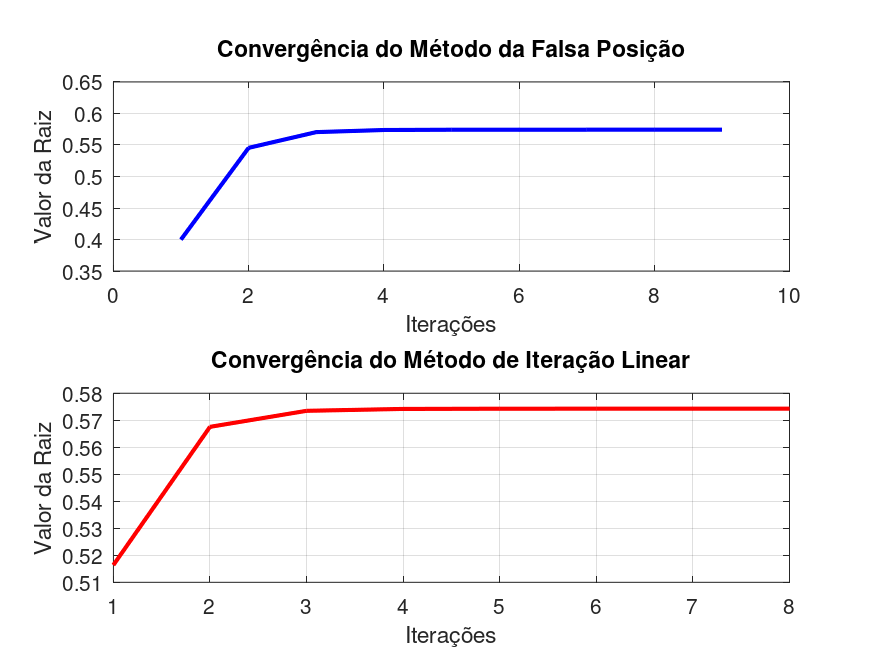
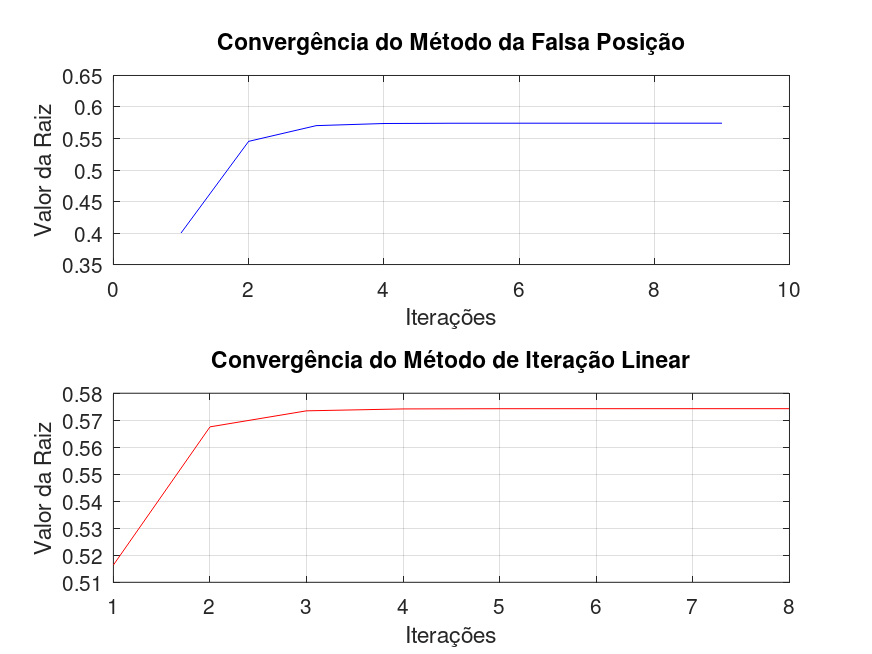
Revendo algumas alterações

diff --git a/Lista 5 - Alex e Bruno/P2/lista5Questao3.m b/Lista 5 - Alex e Bruno/P2/lista5Questao3.m
@@ -140,20 +140,64 @@ function criar_tabela(itBisseccao, rootBisseccao, itFalsaPosicao, rootFalsaPosic
 endfunction
 
 function criar_graficos(valoresBisseccao, valoresFalsaPosicao, valoresIteracaoLinear, valoresNewtonRaphson, valoresSecante)
-    % Função para criar gráficos de convergência
+    % Função para criar gráficos de convergência separados para cada método
+
     figure;
-    plot(valoresBisseccao, '-o'); hold on;
-    plot(valoresFalsaPosicao, '-x');
-    plot(valoresIteracaoLinear, '-s');
-    plot(valoresNewtonRaphson, '-d');
-    plot(valoresSecante, '-p');
+    plot(valoresBisseccao, 'b-'); hold on;
+    plot(valoresFalsaPosicao, 'g-');
+    plot(valoresIteracaoLinear, 'm-');
+    plot(valoresNewtonRaphson, 'c-');
+    plot(valoresSecante, 'r-');
     legend('Bissecção', 'Falsa Posição', 'Iteração Linear', 'Newton-Raphson', 'Secante');
     xlabel('Iterações');
     ylabel('Valor de xr');
-    title('Convergência dos Métodos');
+    title('Convergência dos Métodos (Gráfico Combinado)');
     grid on;
-    saveas(gcf, 'graficos_convergencia_lista5Questao3.png');  % Salva o gráfico gerado
+    saveas(gcf, 'graficos_convergencia_combinado_lista5Questao3.png');  % Salva o gráfico combinado
+
+    % Gráfico para Bissecção
+    figure;
+    plot(valoresBisseccao, 'b-', 'DisplayName', 'Bissecção');
+    xlabel('Iterações');
+    ylabel('Raiz Aproximada');
+    title('Gráfico de Convergência - Bissecção');
+    legend show;
+
+    % Gráfico para Falsa Posição
+    figure;
+    plot(valoresFalsaPosicao, 'g-', 'DisplayName', 'Falsa Posição');
+    xlabel('Iterações');
+    ylabel('Raiz Aproximada');
+    title('Gráfico de Convergência - Falsa Posição');
+    legend show;
+
+    % Gráfico para Iteração Linear
+    figure;
+    plot(valoresIteracaoLinear, 'm-', 'DisplayName', 'Iteração Linear');
+    xlabel('Iterações');
+    ylabel('Raiz Aproximada');
+    title('Gráfico de Convergência - Iteração Linear');
+    legend show;
+
+    % Gráfico para Newton-Raphson
+    figure;
+    plot(valoresNewtonRaphson, 'c-', 'DisplayName', 'Newton-Raphson');
+    xlabel('Iterações');
+    ylabel('Raiz Aproximada');
+    title('Gráfico de Convergência - Newton-Raphson');
+    legend show;
+
+    % Gráfico para Secante
+    figure;
+    plot(valoresSecante, 'r-', 'DisplayName', 'Secante');
+    xlabel('Iterações');
+    ylabel('Raiz Aproximada');
+    title('Gráfico de Convergência - Secante');
+    legend show;
 endfunction
+
+
+
 
 function Ea = calcularErroEstimativa(resultadoAtual, resultadoPrev)
     if resultadoPrev == Inf

diff --git a/Lista 5 - Alex e Bruno/P1/lista5Questao1.m b/Lista 5 - Alex e Bruno/P1/lista5Questao1.m
@@ -145,7 +145,7 @@ function criar_graficos(itBisseccao, valoresBisseccao, itIteracaoLinear, valores
 
     % Gráfico para Bissecção
     subplot(2, 1, 1);
-    plot(1:length(valoresBisseccao), valoresBisseccao, 'b-', 'LineWidth', 2);
+    plot(1:length(valoresBisseccao), valoresBisseccao, 'b-');
     title('Convergência do Método da Bissecção');
     xlabel('Iterações');
     ylabel('Valor da Raiz');
@@ -153,7 +153,7 @@ function criar_graficos(itBisseccao, valoresBisseccao, itIteracaoLinear, valores
 
     % Gráfico para Iteração Linear
     subplot(2, 1, 2);
-    plot(1:length(valoresIteracaoLinear), valoresIteracaoLinear, 'r-', 'LineWidth', 2);
+    plot(1:length(valoresIteracaoLinear), valoresIteracaoLinear, 'r-');
     title('Convergência do Método de Iteração Linear');
     xlabel('Iterações');
     ylabel('Valor da Raiz');

diff --git a/Lista 5 - Alex e Bruno/P1/lista5Questao5.m b/Lista 5 - Alex e Bruno/P1/lista5Questao5.m
@@ -136,7 +136,7 @@ function criar_graficos(itBisseccao, valoresBisseccao, itNewtonRaphson, valoresN
 
     % Gráfico para Bissecção
     subplot(2, 1, 1);
-    plot(1:length(valoresBisseccao), valoresBisseccao, 'b-', 'LineWidth', 2);
+    plot(1:length(valoresBisseccao), valoresBisseccao, 'b-');
     title('Convergência do Método da Bissecção');
     xlabel('Iterações');
     ylabel('Valor da Raiz');
@@ -144,7 +144,7 @@ function criar_graficos(itBisseccao, valoresBisseccao, itNewtonRaphson, valoresN
 
     % Gráfico para Newton-Raphson
     subplot(2, 1, 2);
-    plot(1:length(valoresNewtonRaphson), valoresNewtonRaphson, 'r-', 'LineWidth', 2);
+    plot(1:length(valoresNewtonRaphson), valoresNewtonRaphson, 'r-');
     title('Convergência do Método de Newton-Raphson');
     xlabel('Iterações');
     ylabel('Valor da Raiz');

diff --git a/Lista 5 - Alex e Bruno/P1/lista5Questao6.m b/Lista 5 - Alex e Bruno/P1/lista5Questao6.m
@@ -138,7 +138,7 @@ function criar_graficos(itFalsaPosicao, valoresFalsaPosicao, itSecante, valoresS
 
     % Gráfico para Falsa Posição
     subplot(2, 1, 1);
-    plot(1:length(valoresFalsaPosicao), valoresFalsaPosicao, 'b-', 'LineWidth', 2);
+    plot(1:length(valoresFalsaPosicao), valoresFalsaPosicao, 'b-');
     title('Convergência do Método da Falsa Posição');
     xlabel('Iterações');
     ylabel('Valor da Raiz');
@@ -146,7 +146,7 @@ function criar_graficos(itFalsaPosicao, valoresFalsaPosicao, itSecante, valoresS
 
     % Gráfico para Secante
     subplot(2, 1, 2);
-    plot(1:length(valoresSecante), valoresSecante, 'r-', 'LineWidth', 2);
+    plot(1:length(valoresSecante), valoresSecante, 'r-');
     title('Convergência do Método da Secante');
     xlabel('Iterações');
     ylabel('Valor da Raiz');

diff --git a/Lista 5 - Alex e Bruno/P1/lista5Questao4.m b/Lista 5 - Alex e Bruno/P1/lista5Questao4.m
@@ -134,7 +134,7 @@ function criar_graficos(itFalsaPosicao, itIteracaoLinear, valoresFalsaPosicao, v
 
     % Gráfico para Falsa Posição
     subplot(2, 1, 1);
-    plot(1:itFalsaPosicao, valoresFalsaPosicao, 'b-', 'LineWidth', 2);
+    plot(1:itFalsaPosicao, valoresFalsaPosicao, 'b-');
     title('Convergência do Método da Falsa Posição');
     xlabel('Iterações');
     ylabel('Valor da Raiz');
@@ -142,7 +142,7 @@ function criar_graficos(itFalsaPosicao, itIteracaoLinear, valoresFalsaPosicao, v
 
     % Gráfico para Iteração Linear
     subplot(2, 1, 2);
-    plot(1:itIteracaoLinear, valoresIteracaoLinear, 'r-', 'LineWidth', 2);
+    plot(1:itIteracaoLinear, valoresIteracaoLinear, 'r-');
     title('Convergência do Método de Iteração Linear');
     xlabel('Iterações');
     ylabel('Valor da Raiz');

diff --git a/Lista 5 - Alex e Bruno/P1/lista5Questao2.m b/Lista 5 - Alex e Bruno/P1/lista5Questao2.m
@@ -151,7 +151,7 @@ function criar_graficos(itBisseccao, valoresBisseccao, itSecante, valoresSecante
 
     % Gráfico para Bissecção
     subplot(2, 1, 1);
-    plot(1:length(valoresBisseccao), valoresBisseccao, 'b-', 'LineWidth', 2);
+    plot(1:length(valoresBisseccao), valoresBisseccao, 'b-');
     title('Convergência do Método da Bissecção');
     xlabel('Iterações');
     ylabel('Valor da Raiz');
@@ -159,7 +159,7 @@ function criar_graficos(itBisseccao, valoresBisseccao, itSecante, valoresSecante
 
     % Gráfico para Secante
     subplot(2, 1, 2);
-    plot(1:length(valoresSecante), valoresSecante, 'r-', 'LineWidth', 2);
+    plot(1:length(valoresSecante), valoresSecante, 'r-');
     title('Convergência do Método da Secante');
     xlabel('Iterações');
     ylabel('Valor da Raiz');

diff --git a/Lista 5 - Alex e Bruno/P1/lista5Questao3.m b/Lista 5 - Alex e Bruno/P1/lista5Questao3.m
@@ -113,7 +113,7 @@ function criar_graficos(itSecante, itNewton, valoresSecante, valoresNewton)
 
     % Gráfico para Secante
     subplot(2, 1, 1);
-    plot(1:length(valoresSecante), valoresSecante, 'b-', 'LineWidth', 2);
+    plot(1:length(valoresSecante), valoresSecante, 'b-');
     title('Convergência do Método da Secante');
     xlabel('Iterações');
     ylabel('Valor da Raiz');
@@ -121,7 +121,7 @@ function criar_graficos(itSecante, itNewton, valoresSecante, valoresNewton)
 
     % Gráfico para Newton-Raphson
     subplot(2, 1, 2);
-    plot(1:length(valoresNewton), valoresNewton, 'r-', 'LineWidth', 2);
+    plot(1:length(valoresNewton), valoresNewton, 'r-');
     title('Convergência do Método de Newton-Raphson');
     xlabel('Iterações');
     ylabel('Valor da Raiz');
